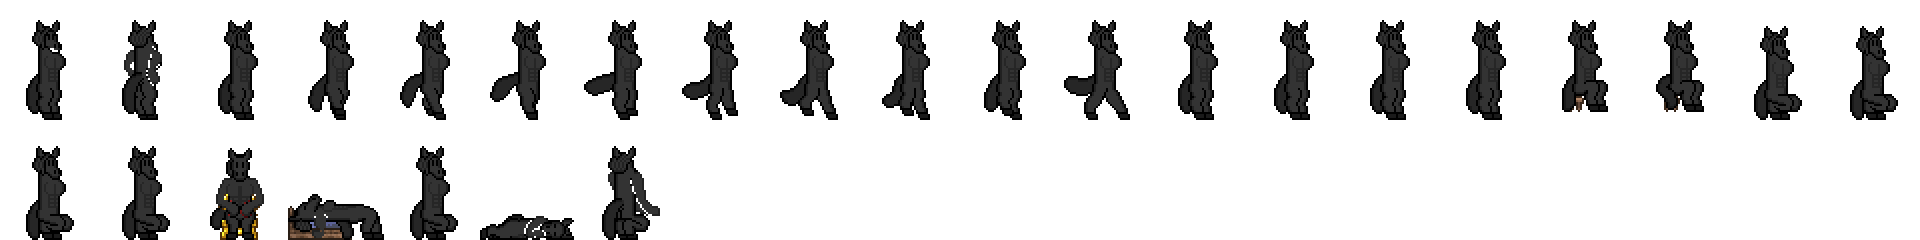
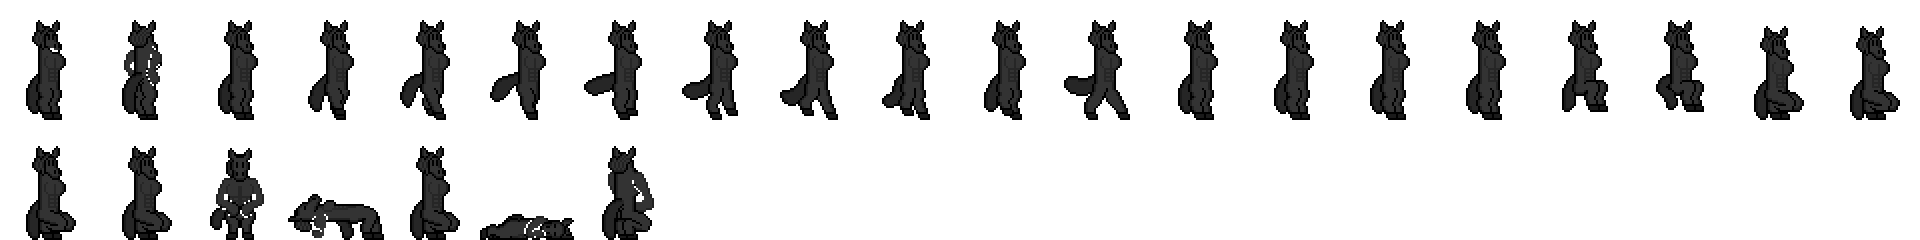
Changed a specific animation from Miguel, which made things really... weird.

diff --git a/TerraGuardian.cs b/TerraGuardian.cs
@@ -11722,7 +11722,7 @@ namespace giantsummon
                                 DamageStack = Main.npc[n].damage;
                                 AttackDirection = Main.npc[n].direction;
                             }
-                            if(GuardianBountyQuest.TargetMonsterID == n)
+                            if(GuardianBountyQuest.TargetMonsterSpawnPosition == n)
                             {
                                 GuardianBountyQuest.OnBountyMonsterHitTerraGuardian(this);
                             }
@@ -15122,10 +15122,11 @@ namespace giantsummon
             if (NewState != LastAnimationState)
                 AnimationTime = 0;
             LastAnimationState = NewState;
-            if(CarriedByGuardianID > -1)
+            if (CarriedByGuardianID > -1)
             {
                 BodyAnimationFrame = Base.StandingFrame;
                 LeftArmAnimationFrame = RightArmAnimationFrame = Base.JumpFrame;
+                ApplyFrameAnimationChangeScripts();
                 return;
             }
             if (HasBuff(ModContent.BuffType<giantsummon.Buffs.Sleeping>()) && Velocity.X == 0 && Velocity.Y == 0 && !BeingPulledByPlayer)

diff --git a/Creatures/Miguel/MiguelBase.cs b/Creatures/Miguel/MiguelBase.cs
@@ -59,16 +59,18 @@ namespace giantsummon.Creatures
             ThroneSittingFrame = 22;
             BedSleepingFrame = 23;
             SleepingOffset.X = 16;
-            //ReviveFrame = 24;  //Rework animation before enabling this.
-            ReviveFrame = 21;
+            ReviveFrame = 24;  //Rework animation before enabling this.
+            //ReviveFrame = 21;
             DownedFrame = 25;
 
             BackwardStanding = 1;
-            //BackwardRevive = 26; //Needs animation rework, just like frame 24
+            BackwardRevive = 26; //Needs animation rework, just like frame 24
 
             SpecificBodyFrontFramePositions = true;
             BodyFrontFrameSwap.Add(16, 0);
             BodyFrontFrameSwap.Add(17, 0);
+
+            RightArmFrontFrameSwap.Add(24, 0);
 
             SittingPoint2x = new Microsoft.Xna.Framework.Point(22, 47);
 
